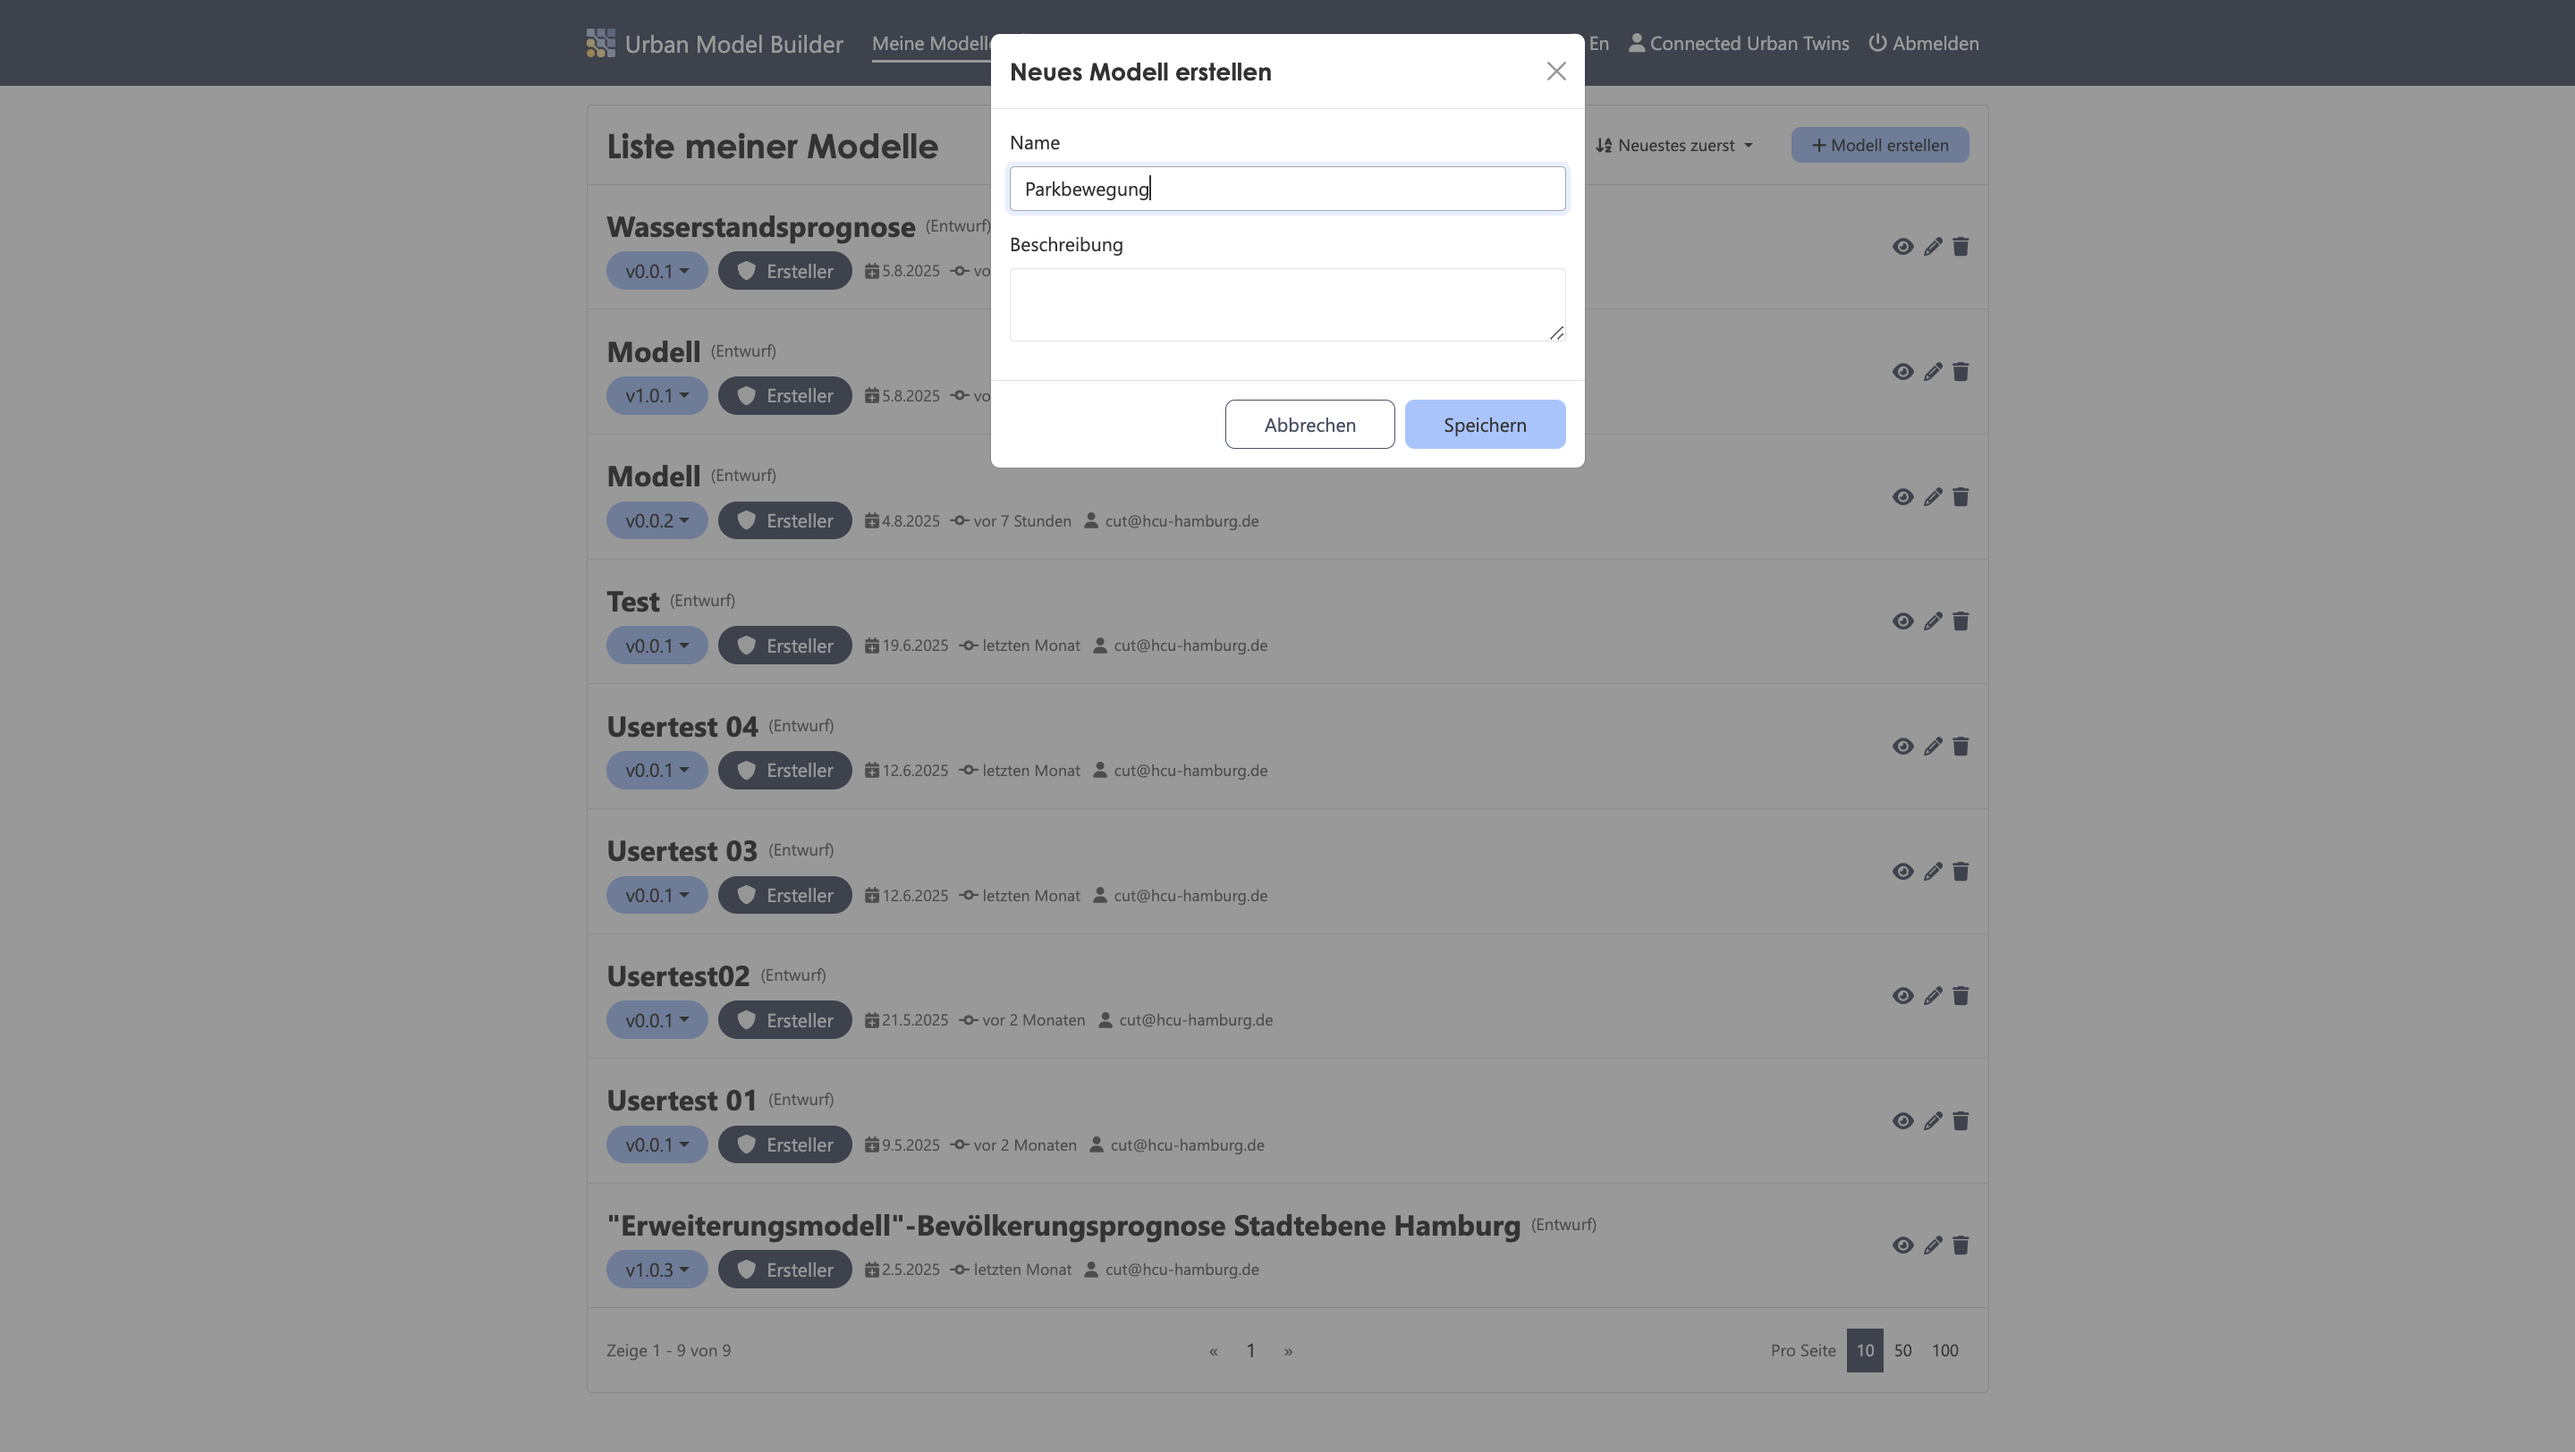
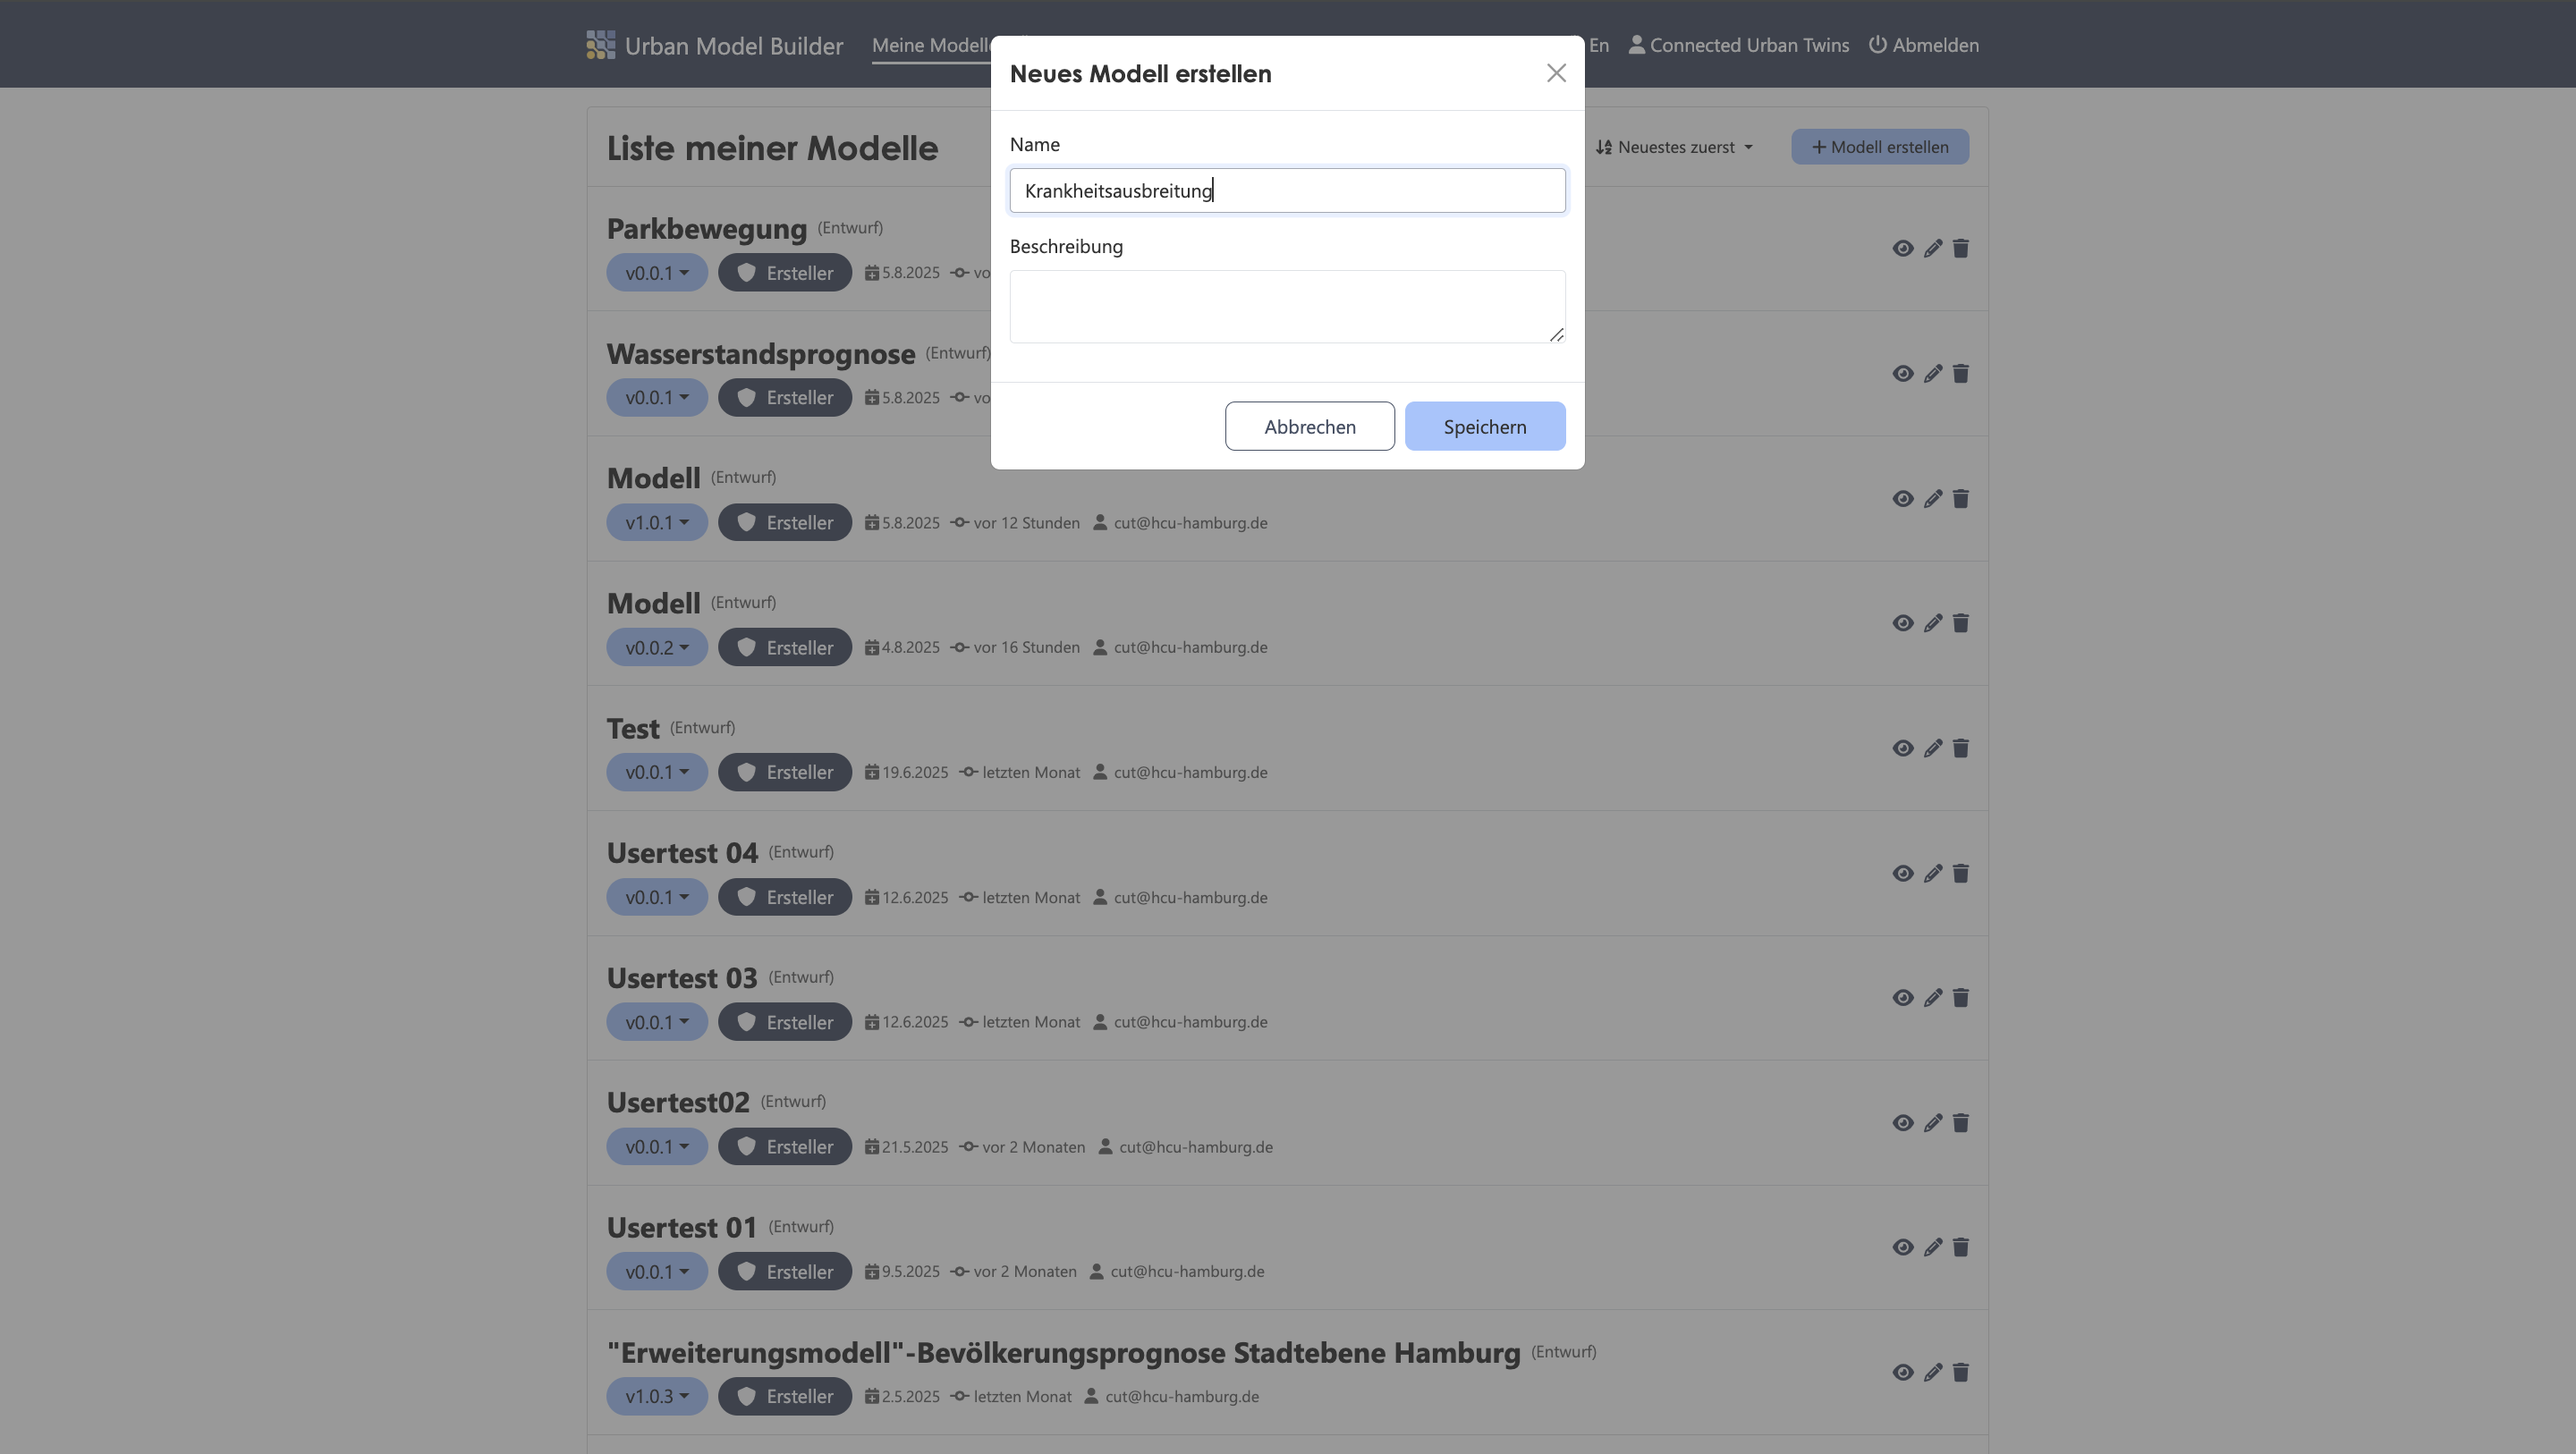
Tutorial changes

diff --git a/docs/docs/tutorials/ABM_tutorial.md b/docs/docs/tutorials/ABM_tutorial.md
@@ -3,109 +3,193 @@ sidebar_position: 2
 ---
 # Agent-Based Model
 
-# Fußgänger:innen in einem Park
-Stell dir vor, du möchtest simulieren, wie sich Menschen durch einen öffentlichen Park bewegen. Manche bleiben länger an bestimmten Orten (zB Spielplatz, Café), andere durchqueren den Park einfach nur. Manche beeinflussen sich sogar gegenseitig, z. B. durch Gruppendynamik oder Sichtbarkeit. Die folgende Schritt-für-Schritt-Anleitung zeigt dir, wie du dein erstes Agent-Based Model aufbauen kannst!
+# Krankheitsausbreitung
+Stell dir vor, du möchtest simulieren, wie sich ein Krankheitserreger innerhalb einer Bevölkerungsgruppe über einen bestimmten Zeitraum ausbreitet. Dabei beeinflussen sich die Agenten gegenseitig- sie stecken sich gegenseitig an, wenn sie zufällig aufeinander treffen. Zustände ändern sich somit ständig von "anfällig" über "infiziert" bishin zu "genesen". Die folgende Schritt-für-Schritt- Anleitung zeigt dir, wie du in nur wenigen Schritten dein erstes agentenbasiertes Modell aufbaust!
 
 ---
 # 1. Neues Modell
-✔ Erstelle ein neues Modell und nenne es "Parkbewegung ABM"
+✔ Erstelle ein neues Modell und nenne es "Krankheitsausbreitung"
 
 ![ModellErstellen](./img/1_ABM.png)
 
 ---
 # 2. Agent-Typ "Person" erstellen
-✔ Erstelle einen neuen Agententyp (über das + oder Rechtsklick im Modellbaum)
+✔ Füge einen Agenten hinzu und nenne ihn "Person"
 
-✔ Benenne ihn "Person"
+✔ Ziehe das Fenster des Primitives auf dem Canvas größer, um die nächsten Primitives hinein zu platzieren
 
-✔ Füge Attribute hinzu, zB :  
-standort: [x, y]  
-ziel: "Café"  
-energie: 100
-
-![ModellErstellen](./img/1_ABM.png)
+![AgentEinfügen](./img/2_ABM.png)
 
 ---
-# 3. Aktion "Bewegen" erstellen
-✔ Füge eine Aktion im Agenten "Person" hinzu, zB "Bewegen"
+# 3. State "anfällig" erstellen
+✔ Füge ein State im Agenten "Person" hinzu und nenne ihn "anfällig"
 
-✔ Programmiere, dass sich der Agent *bei jedem Schritt* in Richtung seines Ziels bewegt  
-(zB mit einer einfachen moveTo(ziel)-Funktion oder einem Abstandswert)
+✔ Zum Startzeitpunkt ist dieser Zustand korrekt, somit setze den Parameter auf ```true```
 
-✔ Optional: Reduziere bei jedem Schritt den Energie-Wert (energie -= 1)
+✔ Die Vorhaltezeit beträgt ```0```
 
-![ModellErstellen](./img/1_ABM.png)
-
----
-# 4. Zustand (State) hinzufügen
-✔ Erstelle zwei Zustände im Agenten:  
-- "Unterwegs"  
-- "Am Ziel"
-
-✔ Setze den Startzustand auf "Unterwegs"
-
-![ModellErstellen](./img/1_ABM.png)
+![ModellErstellen](./img/3_ABM.png)
 
 ---
-# 5. Transition definieren
-✔ Definiere eine Transition von "Unterwegs" → "Am Ziel"
+# 4. State "infiziert" erstellen
 
-✔ Bedingung: Wenn der Agent in Nähe seines Ziels ist (zB dist(standort, ziel) < 2)
+✔ Füge ein State im Agenten "Person" hinzu und nenne ihn "infiziert"
 
-✔ Füge eine Aktion hinzu: zB energie = energie + 20
+✔ Verbinde den State "anfällig" mit dem State "infizieren"
 
-![ModellErstellen](./img/1_ABM.png)
+✔ Zum Startzeitpunkt ist dieser Zustand ```not [anfällig]```. Hierzu kannst du den Wert des verbundenen Primitives "anfällig" übernehmen
 
----
-# 6. Population hinzufügen
-✔ Füge eine Population von zB 100 Personen zum Modell hinzu
+✔ Die Vorhaltezeit beträgt ```0```
 
-✔ Wähle als Agententyp "Person"
-
-✔ Verteile sie zufällig im Park (z. B. zufällige Startposition)
-
-![ModellErstellen](./img/1_ABM.png)
+![ModellErstellen](./img/4_ABM.png)
 
 ---
-# 7. Variable "Tageszeit“ erstellen
-✔ Füge im globalen Modell eine Variable "Tageszeit" hinzu
+# 5. State "genesen" erstellen
 
-✔ Beginne mit zB 6 (für 6:00 Uhr)
+✔ Füge ein State im Agenten "Person" hinzu und nenne ihn "genesen"
 
-✔ Erhöhe sie bei jedem Zeitschritt um 0.25 (für Viertelstunden)
+✔ Zum Startzeitpunkt ist dieser Zustand nicht korrekt, somit setze den Parameter auf```false```
 
-![ModellErstellen](./img/1_ABM.png)
+✔ Die Vorhaltezeit beträgt ```0```
 
----
-# 8. Agentenverhalten zeitabhängig machen
-✔ Passe das Verhalten an die Tageszeit an, zB :
-
-```js
-if (Tageszeit > 12 && ziel == "Spielplatz") {
-    ziel = "Café";
-}
-```
-✔ So ändern Agenten dynamisch ihr Ziel je nach Uhrzeit
-
-![ModellErstellen](./img/1_ABM.png)
+![ModellErstellen](./img/5_ABM.png)
 
 ---
-# 9. Simulationseinstellungen
+# 6. Transition "Krankheitserreger" erstellen
 
-✔ Öffne die Modell-Einstellungen in der Sidebar
+✔ Füge eine Transition im Agenten "Person" hinzu und nenne ihn "Krankheitserreger"
+
+✔ Verbinde den State "anfällig" mit dem State "infiziert" über diese Transition
+
+✔ Der Auslöser ist eine "Condition" und bedingt sich durch Kontakt zu anderen Agenten nach 5 Jahren
+
+✔ Setze den Wert auf```Self.Index()=1 and Years=5```
+
+✔ Lasse den Wert bei jedem Zeitschritt "Neuberechnen"
+
+![ModellErstellen](./img/6_ABM.png)
+
+---
+# 7. Transition "Erholung" erstellen
+
+✔ Füge eine Transition im Agenten "Person" hinzu und nenne ihn "Erholung"
+
+✔ Verbinde den State "infiziert" mit dem State "genesen" über diese Transition
+
+✔ Der Auslöser ist eine "Probability". Die Annahme ist, dass pro Zeitschritt 9% der infizierten Personen sich erholen.
+
+✔ Setze den Wert auf ```0.09```
+
+✔ Lasse den Wert bei jedem Zeitschritt "Neuberechnen"
+
+![ModellErstellen](./img/7_ABM.png)
+
+---
+# 8. Transition "Übertragung" erstellen
+
+✔ Füge eine Transition im Agenten "Person" hinzu und nenne ihn "Übertragung"
+
+✔ Verbinde den State "anfällig" mit dem State "infiziert" über diese Transition
+
+✔ Der Auslöser ist eine "Probability". Die Wahrscheinlichkeit infiziert zu werden, hängt von der Population ab, die wir im späteren Verlauf modellieren.
+
+![ModellErstellen](./img/8_ABM.png)
+
+---
+# 9. Action "Erreger einfangen" erstellen
+
+✔ Füge eine Action im Agenten "Person" hinzu und nenne ihn "Erreger einfangen"
+
+✔ Verbinde den State "anfällig" mit dieser Action 
+
+✔ Der Auslöser ist eine "Condition" und bedingt sich ebenfalls durch die Population, die wir im nächsten Schritt modellieren.
+
+![ModellErstellen](./img/9_ABM.png)
+
+---
+# 10. Population erstellen
+
+✔ Füge eine Population hinzu, die durch die Verbindung zum Agenten "Person" das Verhalten auf eine ganze Population anwendet
 
 ✔ Setze die Werte wie folgt:
-Start: 0
-Länge: 24
-Intervall: 0.25
-Einheit: Stunden
 
-![ModellErstellen](./img/1_ABM.png)
+Größe der Bevölkerung: ```100```
+
+Geo Breite: ```200```
+
+Geo Höhe: ```200```
+
+Geo Platzierung: "Random"
+
+Netzwerktyp: "keine"
+
+✔ Stelle die Population als Output-Parameter ein
+
+![ModellErstellen](./img/10_ABM.png)
 
 ---
-# 10. Simulation starten
-✔ Klicke auf „Simulieren“ in der Activebar
+# 11. Gleichungen für Action "Erreger einfangen" setzen
 
-✔ Beobachte, wie sich die Agenten über den Park bewegen und Ziele wechseln
+✔ Verbinde die Population mit der Action "Erreger einfangen" im Agenten "Person"
 
-![ModellErstellen](./img/1_ABM.png)
+✔ Setze die Aktionsfunktion auf ```Self.moveTowards([Population].FindState([infiziert]).FindNearest(Self), -0.5)```
+
+✔ Setze den Wert auf ```[anfällig] and [Population].FindState([infiziert]).count()> 0```
+
+
+![ModellErstellen](./img/11_ABM.png)
+
+---
+# 12. Gleichungen für Transition "Übertragung" setzen
+
+✔ Verbinde die Population mit der Transition "Übertragung" im Agenten "Person"
+
+✔ Setze den Wert auf: 
+```
+infectors <- [Population].FindState([infiziert]).FindNearby(Self, 25)
+
+probInfect <- min(1, infectors.Map(1/(distance(x, Self))^.75))
+
+1 - Product(Join(1, 1 - probInfect))
+```
+✔ Lasse den Wert bei jedem Zeitschritt "Neuberechnen"
+
+![ModellErstellen](./img/12_ABM.png)
+
+---
+# 13. Variable "Prozentsatz Infizierte" erstellen
+
+✔ Füge eine Variable hinzu und nenne sie "Prozentsatz Infizierte"
+
+✔ Verbinde die Population mit dieser Variablen
+
+✔ Setze den Wert auf ```[Population].FindState([infiziert]).Count()/[Population].FindAll().Count()*100```
+
+✔ Stelle die Variable ebenfalls als Output-Parameter ein
+
+![ModellErstellen](./img/13_ABM.png)
+
+---
+# 14. Simulationseinstellungen
+
+✔ Öffne die Modell Einstellung in der Sidebar 
+
+✔ Setze die Werte wie folgt:
+
+Start: 0
+Länge: 20 
+Intervall: 1 
+Einheit: Jahre
+
+![ModellErstellen](./img/14_ABM.png)
+
+---
+# 15. Simulation starten 
+✔ Starte die Berechnung der Simulation, indem du auf den "Simulieren"-Button in der Activebar klickst
+
+✔ Schaue dir das Streudiagramm an, indem du auf den "Scatter-Plot" Reiter klickst 
+
+![ModellErstellen](./img/15_ABM.png)
+
+
+# Und fertig ist dein erstes agentenbasiertes Modell!

diff --git a/docs/docs/tutorials/SD_tutorial.md b/docs/docs/tutorials/SD_tutorial.md
@@ -48,7 +48,7 @@ Stell dir vor, du möchtest wissen, wie sich die Wassermenge in einem See über 
 ![VariableErstellen](./img/4_SD.png)
 
 ---
-# 5. Formel für Flow "Zufluss" setzen
+# 5. Gleichung für Flow "Zufluss" setzen
 ✔ Öffne die Parameter Einstellung des Flows "Zufluss", indem du darauf klickst
 
 ✔ Addiere den Wert "Niederschlag" zu dem Wert des einströmenden Bachlaufs
@@ -78,7 +78,7 @@ Stell dir vor, du möchtest wissen, wie sich die Wassermenge in einem See über 
 ![OutflowAnlegen](./img/9_SD.png)
 
 ---
-# 8. Formel für Flow "Verdunstung" setzen
+# 8. Gleichung für Flow "Verdunstung" setzen
 ✔ Öffne die Parameter Einstellung des Flows "Verdunstung"
 
 ✔ Addiere den Wert "Verdunstungsrate" zu dem Wert des ausströmenden Bachlaufs
@@ -89,6 +89,7 @@ Stell dir vor, du möchtest wissen, wie sich die Wassermenge in einem See über 
 ✔ Öffne die Modell Einstellung in der Sidebar 
 
 ✔ Setze die Werte wie folgt:
+
 Start: 0
 Länge: 365 
 Intervall: 1 
@@ -100,3 +101,5 @@ Einheit: Tage
 ✔ Starte die Berechnung der Simulation, indem du auf den "Simulieren"-Button in der Activebar klickst
 
 ![Simulation](./img/12_SD.png)
+
+# Und fertig ist dein erstes System Dynamics Modell!
